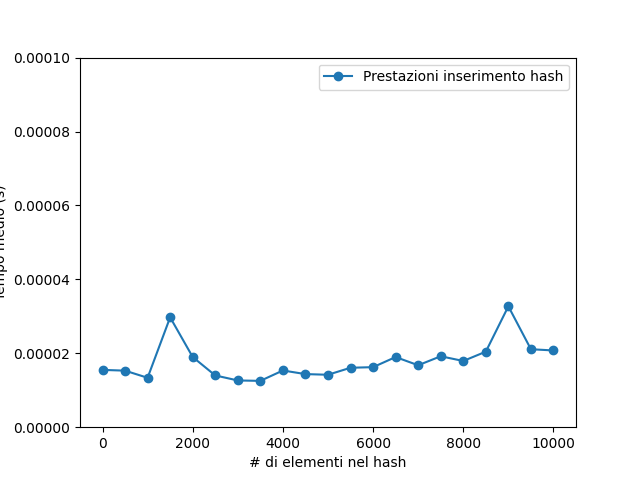
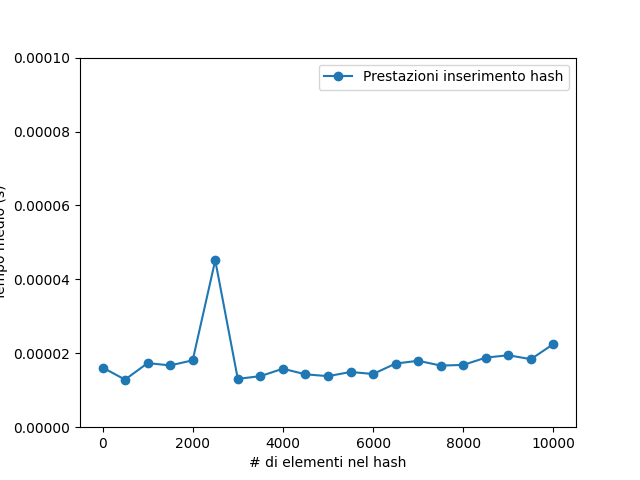
Insert

Changed region(s): [[0.1562, 0.5312, 0.4688, 0.8125], [0.5, 0.6875, 0.875, 0.8125], [0.7812, 0.625, 0.8125, 0.6875]]

diff --git a/Hash_ABR_ConcatenatedList/main.py b/Hash_ABR_ConcatenatedList/main.py
@@ -269,7 +269,7 @@ def main():
     plt.title('Tabella inserimento lista cancatenata', fontsize=18, fontweight='bold')
     plt.axis('tight')
     plt.axis('off')
-    #plt.savefig('insert_list_table.png')
+    plt.savefig('insert_list_table.png')
     plt.close()
 
     data_frame = pd.DataFrame({'# Elementi': struct_size, 'Tempo(s)': search_list_times})
@@ -304,6 +304,27 @@ def main():
     plt.savefig('delete_list_table.png')
     plt.close()
 
+    # Grafici lista concatenata
+    plt.plot(struct_size, insert_list_times, label='Prestazioni inserimento lista concatenata', marker='o')
+    plt.xlabel('Dimensione della lista')
+    plt.ylabel('Tempo medio (s)')
+    plt.legend()
+    plt.savefig('insert_list_plot.png')
+    plt.close()
+
+    plt.plot(struct_size, search_list_times, label='Prestazioni ricerca lista concatenata', marker='o')
+    plt.xlabel('Dimensione della lista')
+    plt.ylabel('Tempo medio (s)')
+    plt.legend()
+    plt.savefig('search_list_plot.png')
+    plt.close()
+
+    plt.plot(struct_size, delete_list_times, label='Prestazioni eliminazione lista concatenata', marker='o')
+    plt.xlabel('Dimensione della lista')
+    plt.ylabel('Tempo medio (s)')
+    plt.legend()
+    plt.savefig('delete_list_plot.png')
+    plt.close()
 
     # Tabelle Alberi binari di ricerca
     data_frame = pd.DataFrame({'# Elementi': struct_size, 'Tempo(s)': insert_abr_times})
@@ -319,7 +340,7 @@ def main():
     plt.title('Tabella inserimento albero binario di ricerca', fontsize=18, fontweight='bold')
     plt.axis('tight')
     plt.axis('off')
-    #plt.savefig('insert_abr_table.png')
+    plt.savefig('insert_abr_table.png')
     plt.close()
 
     data_frame = pd.DataFrame({'# Elementi': struct_size, 'Tempo(s)': search_abr_times})
@@ -354,6 +375,31 @@ def main():
     plt.savefig('delete_abr_table.png')
     plt.close()
 
+    # Grafici alberi binari di ricerca
+    plt.plot(struct_size, insert_abr_times, label='Prestazioni inserimento albero binario di ricerca', marker='o')
+    plt.xlabel("# di elementi nell'albero")
+    plt.ylabel('Tempo medio (s)')
+    plt.ylim(0, 0.0001)
+    plt.legend()
+    plt.savefig('insert_abr_plot.png')
+    plt.close()
+
+    plt.plot(struct_size, search_abr_times, label='Prestazioni ricerca albero binario di ricerca', marker='o')
+    plt.xlabel("# di elementi nell'albero")
+    plt.ylabel('Tempo medio (s)')
+    plt.ylim(0, 0.0001)
+    plt.legend()
+    plt.savefig('search_abr_plot.png')
+    plt.close()
+
+    plt.plot(struct_size, delete_abr_times, label='Prestazioni eliminazione albero binario di ricerca', marker='o')
+    plt.xlabel("# di elementi nell'albero")
+    plt.ylabel('Tempo medio (s)')
+    plt.ylim(0, 0.0001)
+    plt.legend()
+    plt.savefig('delete_abr_plot.png')
+    plt.close()
+
     # Tabelle dell'hash
     data_frame = pd.DataFrame({'# Elementi': struct_size, 'Tempo(s)': insert_hash_times})
     data_frame = data_frame.iloc[1:]
@@ -368,7 +414,7 @@ def main():
     plt.title('Tabella inserimento hash', fontsize=18, fontweight='bold')
     plt.axis('tight')
     plt.axis('off')
-    #plt.savefig('insert_hash_table.png')
+    plt.savefig('insert_hash_table.png')
     plt.close()
 
     data_frame = pd.DataFrame({'# Elementi': struct_size, 'Tempo(s)': search_hash_times})
@@ -403,6 +449,30 @@ def main():
     plt.savefig('delete_hash_table.png')
     plt.close()
 
+    # Grafici hash
+    plt.plot(struct_size, insert_hash_times, label='Prestazioni inserimento hash', marker='o')
+    plt.xlabel("# di elementi nel hash")
+    plt.ylabel('Tempo medio (s)')
+    plt.ylim(0, 0.0001)
+    plt.legend()
+    plt.savefig('insert_hash_plot.png')
+    plt.close()
+
+    plt.plot(struct_size, search_hash_times, label='Prestazioni ricerca hash', marker='o')
+    plt.xlabel("# di elementi nel hash")
+    plt.ylabel('Tempo medio (s)')
+    plt.ylim(0, 0.0001)
+    plt.legend()
+    plt.savefig('search_hash_plot.png')
+    plt.close()
+
+    plt.plot(struct_size, delete_hash_times, label='Prestazioni eliminazione hash', marker='o')
+    plt.xlabel("# di elementi nel hash")
+    plt.ylabel('Tempo medio (s)')
+    plt.ylim(0, 0.0001)
+    plt.legend()
+    plt.savefig('delete_hash_plot.png')
+    plt.close()
 
     # Grafici di inserimento
     plt.figure(figsize=(10, 6))
@@ -413,7 +483,7 @@ def main():
     plt.ylabel('Tempo medio (s)')
     plt.legend()
     plt.title('Confronto prestazioni di inserimento')
-    #plt.savefig('insert_comparison_plot.png')
+    plt.savefig('insert_comparison_plot.png')
     plt.close()
 
     # Grafici di ricerca
